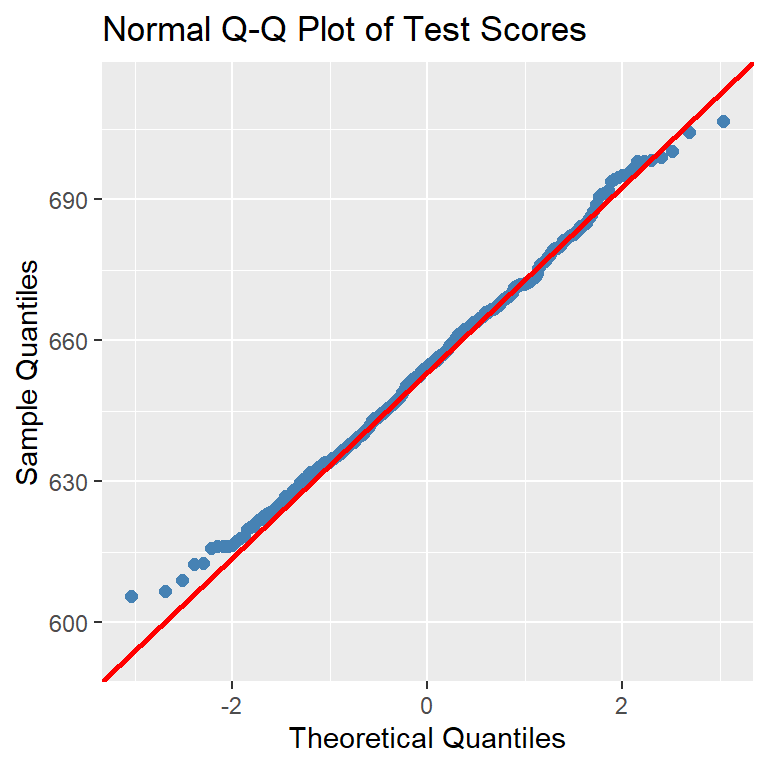
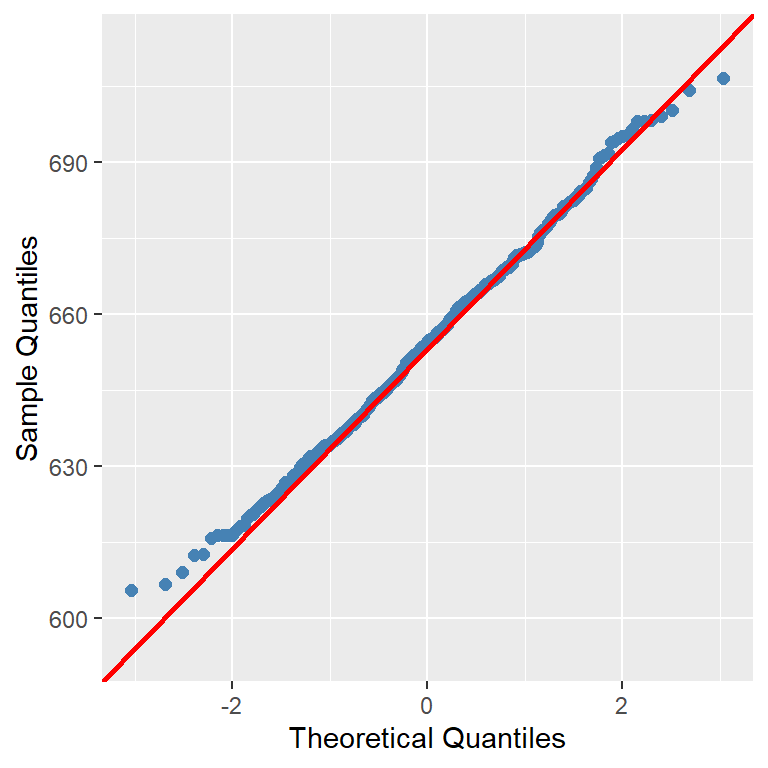
Chapter 6 is updated.

diff --git a/docs/Chapter0-Graphics.html b/docs/Chapter0-Graphics.html
@@ -1186,7 +1186,7 @@ Figure&nbsp;6.8: Pie chart of number of schools by category
 </div>
 </section><section id="quantile-plots" class="level3" data-number="6.2.5"><h3 data-number="6.2.5" class="anchored" data-anchor-id="quantile-plots">
 <span class="header-section-number">6.2.5</span> Quantile plots</h3>
-<p>We use the <code>qqplot</code>, <code>qqnorm</code>, and <code>qqline</code> functions to create quantile plots. The <code>qqnorm</code> function creates a normal Q-Q plot, and the <code>qqline</code> function adds a reference line to the plot. In the following example, we create the normal Q-Q plot of test scores.</p>
+<p>We use quantile plots to compare the sample quantiles of our data to theoretical quantiles from a specified distribution. The <code>qqplot</code> function creates a Q-Q plot for two samples, while the <code>qqnorm</code> function produces a normal Q-Q plot, i.e., a plot of the sample quantiles against the theoretical quantiles of a normal distribution. The <code>qqline</code> function adds a reference line to the plot. If the points in the Q-Q plot lie approximately along the reference line, this provides evidence that the sample distribution is similar to the theoretical distribution. In the following example, we create a normal Q-Q plot for the test scores variable. The figure indicates that for test scores below approximately 650, the corresponding sample quantiles lie above the theoretical quantiles of the standard normal distribution, whereas for test scores above approximately 700, the sample quantiles lie below the corresponding theoretical quantiles. This suggests that the distribution of test scores has relatively light (thin) left and right tails compared to the normal distribution.</p>
 <div class="cell">
 <div class="code-copy-outer-scaffold"><div class="sourceCode" id="cb17"><pre class="downlit sourceCode r code-with-copy"><code class="sourceCode R"><span><span class="co"># Normal Q-Q plot of test scores</span></span>
 <span><span class="fu"><a href="https://rdrr.io/r/stats/qqnorm.html">qqnorm</a></span><span class="op">(</span><span class="va">caschool</span><span class="op">$</span><span class="va">testscr</span>,</span>
@@ -1887,9 +1887,8 @@ Figure&nbsp;6.26: Boxplot of test scores by category with constant fill color
 <div class="code-copy-outer-scaffold"><div class="sourceCode" id="cb38"><pre class="downlit sourceCode r code-with-copy"><code class="sourceCode R"><span><span class="co"># Normal Q-Q plot of test scores</span></span>
 <span><span class="fu"><a href="https://ggplot2.tidyverse.org/reference/ggplot.html">ggplot</a></span><span class="op">(</span>data <span class="op">=</span> <span class="va">caschool</span>, <span class="fu"><a href="https://ggplot2.tidyverse.org/reference/aes.html">aes</a></span><span class="op">(</span>sample <span class="op">=</span> <span class="va">testscr</span><span class="op">)</span><span class="op">)</span> <span class="op">+</span></span>
 <span>  <span class="fu"><a href="https://ggplot2.tidyverse.org/reference/geom_qq.html">geom_qq</a></span><span class="op">(</span>color <span class="op">=</span> <span class="st">"steelblue"</span>, size <span class="op">=</span> <span class="fl">2</span>, shape <span class="op">=</span> <span class="fl">19</span><span class="op">)</span> <span class="op">+</span></span>
-<span>  <span class="fu"><a href="https://ggplot2.tidyverse.org/reference/geom_qq.html">geom_qq_line</a></span><span class="op">(</span>color <span class="op">=</span> <span class="st">"red"</span>, linewidth <span class="op">=</span> <span class="fl">1</span><span class="op">)</span> <span class="op">+</span></span>
-<span>  <span class="fu"><a href="https://ggplot2.tidyverse.org/reference/labs.html">labs</a></span><span class="op">(</span>title <span class="op">=</span> <span class="st">"Normal Q-Q Plot of Test Scores"</span>,</span>
-<span>       x <span class="op">=</span> <span class="st">"Theoretical Quantiles"</span>,</span>
+<span>  <span class="fu"><a href="https://ggplot2.tidyverse.org/reference/geom_qq.html">geom_qq_line</a></span><span class="op">(</span>distribution <span class="op">=</span> <span class="va">qnorm</span>, color <span class="op">=</span> <span class="st">"red"</span>, linewidth <span class="op">=</span> <span class="fl">1</span><span class="op">)</span> <span class="op">+</span></span>
+<span>  <span class="fu"><a href="https://ggplot2.tidyverse.org/reference/labs.html">labs</a></span><span class="op">(</span>x <span class="op">=</span> <span class="st">"Theoretical Quantiles"</span>,</span>
 <span>       y <span class="op">=</span> <span class="st">"Sample Quantiles"</span><span class="op">)</span></span></code></pre></div><button title="Copy to Clipboard" class="code-copy-button"><i class="bi"></i></button></div>
 <div class="cell-output-display">
 <div id="fig-chapter6-f28" class="quarto-float quarto-figure quarto-figure-center anchored">
@@ -1902,11 +1901,32 @@ Figure&nbsp;6.27: Normal Q-Q plot of test scores
 </div>
 </div>
 </div>
+<p>In the following example, we create a Q-Q plot of test scores against the t-distribution with 5 degrees of freedom. We use the <code>distribution</code> argument in the <code>geom_qq</code> function to specify the theoretical distribution. The <code>geom_qq_line</code> function adds a reference line based on the t-distribution with 5 degrees of freedom. The plot shows that the sample quantiles of test scores deviate from the theoretical quantiles of the t-distribution in the left and right tails, suggesting that the distribution of test scores has relatively light (thin) tails compared to the t-distribution with 5 degrees of freedom.</p>
+<div class="cell">
+<div class="code-copy-outer-scaffold"><div class="sourceCode" id="cb39"><pre class="downlit sourceCode r code-with-copy"><code class="sourceCode R"><span><span class="co"># Q-Q plot of test scores against t-distribution with 5 degrees of freedom</span></span>
+<span><span class="fu"><a href="https://ggplot2.tidyverse.org/reference/ggplot.html">ggplot</a></span><span class="op">(</span>data <span class="op">=</span> <span class="va">caschool</span>, <span class="fu"><a href="https://ggplot2.tidyverse.org/reference/aes.html">aes</a></span><span class="op">(</span>sample <span class="op">=</span> <span class="va">testscr</span><span class="op">)</span><span class="op">)</span> <span class="op">+</span></span>
+<span>  <span class="fu"><a href="https://ggplot2.tidyverse.org/reference/geom_qq.html">geom_qq</a></span><span class="op">(</span>distribution <span class="op">=</span> <span class="va">qt</span>, dparams <span class="op">=</span> <span class="fu"><a href="https://rdrr.io/r/base/list.html">list</a></span><span class="op">(</span>df <span class="op">=</span> <span class="fl">5</span><span class="op">)</span>,</span>
+<span>          color <span class="op">=</span> <span class="st">"steelblue"</span>, size <span class="op">=</span> <span class="fl">2</span>, shape <span class="op">=</span> <span class="fl">19</span><span class="op">)</span> <span class="op">+</span></span>
+<span>  <span class="fu"><a href="https://ggplot2.tidyverse.org/reference/geom_qq.html">geom_qq_line</a></span><span class="op">(</span>distribution <span class="op">=</span> <span class="va">qt</span>, dparams <span class="op">=</span> <span class="fu"><a href="https://rdrr.io/r/base/list.html">list</a></span><span class="op">(</span>df <span class="op">=</span> <span class="fl">5</span><span class="op">)</span>,</span>
+<span>               color <span class="op">=</span> <span class="st">"red"</span>, linewidth <span class="op">=</span> <span class="fl">1</span><span class="op">)</span> <span class="op">+</span></span>
+<span>  <span class="fu"><a href="https://ggplot2.tidyverse.org/reference/labs.html">labs</a></span><span class="op">(</span>x <span class="op">=</span> <span class="st">"Theoretical Quantiles"</span>,</span>
+<span>       y <span class="op">=</span> <span class="st">"Sample Quantiles"</span><span class="op">)</span></span></code></pre></div><button title="Copy to Clipboard" class="code-copy-button"><i class="bi"></i></button></div>
+<div class="cell-output-display">
+<div id="fig-chapter6-f28-2" class="quarto-float quarto-figure quarto-figure-center anchored">
+<figure class="quarto-float quarto-float-fig figure"><div aria-describedby="fig-chapter6-f28-2-caption-0ceaefa1-69ba-4598-a22c-09a6ac19f8ca">
+<img src="Chapter0-Graphics_files/figure-html/fig-chapter6-f28-2-1.png" class="img-fluid figure-img" width="384">
+</div>
+<figcaption class="quarto-float-caption-bottom quarto-float-caption quarto-float-fig" id="fig-chapter6-f28-2-caption-0ceaefa1-69ba-4598-a22c-09a6ac19f8ca">
+Figure&nbsp;6.28: Q-Q plot of test scores against t-distribution with 5 degrees of freedom
+</figcaption></figure>
+</div>
+</div>
+</div>
 </section><section id="density-plots-1" class="level3" data-number="6.3.8"><h3 data-number="6.3.8" class="anchored" data-anchor-id="density-plots-1">
 <span class="header-section-number">6.3.8</span> Density plots</h3>
 <p>The <code>geom_density</code> function can be used to create density plots. Its syntax is as follows:</p>
 <div class="cell">
-<div class="code-copy-outer-scaffold"><div class="sourceCode" id="cb39"><pre class="downlit sourceCode r code-with-copy"><code class="sourceCode R"><span><span class="fu"><a href="https://ggplot2.tidyverse.org/reference/geom_density.html">geom_density</a></span><span class="op">(</span>mapping <span class="op">=</span> <span class="cn">NULL</span>, data <span class="op">=</span> <span class="cn">NULL</span>,</span>
+<div class="code-copy-outer-scaffold"><div class="sourceCode" id="cb40"><pre class="downlit sourceCode r code-with-copy"><code class="sourceCode R"><span><span class="fu"><a href="https://ggplot2.tidyverse.org/reference/geom_density.html">geom_density</a></span><span class="op">(</span>mapping <span class="op">=</span> <span class="cn">NULL</span>, data <span class="op">=</span> <span class="cn">NULL</span>,</span>
 <span>                 stat <span class="op">=</span> <span class="st">"density"</span>, position <span class="op">=</span> <span class="st">"identity"</span>,</span>
 <span>                 <span class="va">...</span>,</span>
 <span>                 na.rm <span class="op">=</span> <span class="cn">FALSE</span>, show.legend <span class="op">=</span> <span class="cn">NA</span>,</span>
@@ -1915,7 +1935,7 @@ Figure&nbsp;6.27: Normal Q-Q plot of test scores
 <p>It understands the following aesthetics: (i) <code>x</code>: x-coordinate of the density curve, (ii) <code>y</code>: height of the density curve (computed by default), (iii) <code>fill</code>: fill color of the area under the density curve, (iv) <code>color</code>: border color of the density curve, (v) <code>linetype</code>: line type of the density curve, and (vi) <code>size</code>: line width of the density curve, (vii) <code>alpha</code>: transparency of the fill color, and (viii) <code>group</code>: grouping variable for the density curve.</p>
 <p>In the following example, we create a density plot of test scores.</p>
 <div class="cell">
-<div class="code-copy-outer-scaffold"><div class="sourceCode" id="cb40"><pre class="downlit sourceCode r code-with-copy"><code class="sourceCode R"><span><span class="co"># Density plot of test scores</span></span>
+<div class="code-copy-outer-scaffold"><div class="sourceCode" id="cb41"><pre class="downlit sourceCode r code-with-copy"><code class="sourceCode R"><span><span class="co"># Density plot of test scores</span></span>
 <span><span class="fu"><a href="https://ggplot2.tidyverse.org/reference/ggplot.html">ggplot</a></span><span class="op">(</span>data <span class="op">=</span> <span class="va">caschool</span>, <span class="fu"><a href="https://ggplot2.tidyverse.org/reference/aes.html">aes</a></span><span class="op">(</span>x <span class="op">=</span> <span class="va">testscr</span><span class="op">)</span><span class="op">)</span> <span class="op">+</span></span>
 <span>     <span class="fu"><a href="https://ggplot2.tidyverse.org/reference/geom_density.html">geom_density</a></span><span class="op">(</span>fill <span class="op">=</span> <span class="st">"lightblue"</span>, color <span class="op">=</span> <span class="st">"black"</span>, linewidth <span class="op">=</span> <span class="fl">1</span><span class="op">)</span> <span class="op">+</span></span>
 <span>     <span class="fu"><a href="https://ggplot2.tidyverse.org/reference/labs.html">labs</a></span><span class="op">(</span>title <span class="op">=</span> <span class="st">"Density Plot of Test Scores"</span>,</span>
@@ -1927,14 +1947,14 @@ Figure&nbsp;6.27: Normal Q-Q plot of test scores
 <img src="Chapter0-Graphics_files/figure-html/fig-chapter6-f29-1.png" class="img-fluid figure-img" width="384">
 </div>
 <figcaption class="quarto-float-caption-bottom quarto-float-caption quarto-float-fig" id="fig-chapter6-f29-caption-0ceaefa1-69ba-4598-a22c-09a6ac19f8ca">
-Figure&nbsp;6.28: Density plot of test scores
+Figure&nbsp;6.29: Density plot of test scores
 </figcaption></figure>
 </div>
 </div>
 </div>
-<p>We can overlay a density plot on a histogram. In the following example, we create a histogram of test scores and overlay a density plot on it. The plot is shown in <a href="#fig-chapter6-f30" class="quarto-xref">Figure&nbsp;<span>6.29</span></a>.</p>
+<p>We can overlay a density plot on a histogram. In the following example, we create a histogram of test scores and overlay a density plot on it. The plot is shown in <a href="#fig-chapter6-f30" class="quarto-xref">Figure&nbsp;<span>6.30</span></a>.</p>
 <div class="cell">
-<div class="code-copy-outer-scaffold"><div class="sourceCode" id="cb41"><pre class="downlit sourceCode r code-with-copy"><code class="sourceCode R"><span><span class="co"># Density plot and histogram of test scores</span></span>
+<div class="code-copy-outer-scaffold"><div class="sourceCode" id="cb42"><pre class="downlit sourceCode r code-with-copy"><code class="sourceCode R"><span><span class="co"># Density plot and histogram of test scores</span></span>
 <span><span class="fu"><a href="https://ggplot2.tidyverse.org/reference/ggplot.html">ggplot</a></span><span class="op">(</span>data <span class="op">=</span> <span class="va">caschool</span>, <span class="fu"><a href="https://ggplot2.tidyverse.org/reference/aes.html">aes</a></span><span class="op">(</span>x <span class="op">=</span> <span class="va">testscr</span><span class="op">)</span><span class="op">)</span> <span class="op">+</span></span>
 <span>     <span class="fu"><a href="https://ggplot2.tidyverse.org/reference/geom_histogram.html">geom_histogram</a></span><span class="op">(</span><span class="fu"><a href="https://ggplot2.tidyverse.org/reference/aes.html">aes</a></span><span class="op">(</span>y <span class="op">=</span> <span class="fu"><a href="https://ggplot2.tidyverse.org/reference/aes_eval.html">after_stat</a></span><span class="op">(</span><span class="va">density</span><span class="op">)</span><span class="op">)</span>, binwidth <span class="op">=</span> <span class="fl">5</span>,</span>
 <span>                    fill <span class="op">=</span> <span class="st">"lightgray"</span>, color <span class="op">=</span> <span class="st">"black"</span><span class="op">)</span> <span class="op">+</span></span>
@@ -1948,16 +1968,16 @@ Figure&nbsp;6.28: Density plot of test scores
 <img src="Chapter0-Graphics_files/figure-html/fig-chapter6-f30-1.png" class="img-fluid figure-img" width="576">
 </div>
 <figcaption class="quarto-float-caption-bottom quarto-float-caption quarto-float-fig" id="fig-chapter6-f30-caption-0ceaefa1-69ba-4598-a22c-09a6ac19f8ca">
-Figure&nbsp;6.29: Density plot and histogram of test scores
+Figure&nbsp;6.30: Density plot and histogram of test scores
 </figcaption></figure>
 </div>
 </div>
 </div>
 </section><section id="multiple-plots-in-one-figure-1" class="level3" data-number="6.3.9"><h3 data-number="6.3.9" class="anchored" data-anchor-id="multiple-plots-in-one-figure-1">
 <span class="header-section-number">6.3.9</span> Multiple plots in one figure</h3>
-<p>We can use the <code>gridExtra</code> package to create multiple plots in one figure. The <code>grid.arrange</code> function in the <code>gridExtra</code> package arranges multiple <code>ggplot</code> objects in a grid layout. In the following example, we create a 2x2 grid of plots. The figure is shown in <a href="#fig-chapter6-f31" class="quarto-xref">Figure&nbsp;<span>6.30</span></a>.</p>
+<p>We can use the <code>gridExtra</code> package to create multiple plots in one figure. The <code>grid.arrange</code> function in the <code>gridExtra</code> package arranges multiple <code>ggplot</code> objects in a grid layout. In the following example, we create a 2x2 grid of plots. The figure is shown in <a href="#fig-chapter6-f31" class="quarto-xref">Figure&nbsp;<span>6.31</span></a>.</p>
 <div class="cell">
-<div class="code-copy-outer-scaffold"><div class="sourceCode" id="cb42"><pre class="downlit sourceCode r code-with-copy"><code class="sourceCode R"><span><span class="co"># Multiple plots in one figure</span></span>
+<div class="code-copy-outer-scaffold"><div class="sourceCode" id="cb43"><pre class="downlit sourceCode r code-with-copy"><code class="sourceCode R"><span><span class="co"># Multiple plots in one figure</span></span>
 <span><span class="co"># Scatterplot</span></span>
 <span><span class="va">p1</span> <span class="op">&lt;-</span> <span class="fu"><a href="https://ggplot2.tidyverse.org/reference/ggplot.html">ggplot</a></span><span class="op">(</span>data <span class="op">=</span> <span class="va">caschool</span>, <span class="fu"><a href="https://ggplot2.tidyverse.org/reference/aes.html">aes</a></span><span class="op">(</span>x <span class="op">=</span> <span class="va">str</span>, y <span class="op">=</span> <span class="va">testscr</span><span class="op">)</span><span class="op">)</span> <span class="op">+</span></span>
 <span>        <span class="fu"><a href="https://ggplot2.tidyverse.org/reference/geom_point.html">geom_point</a></span><span class="op">(</span>color <span class="op">=</span> <span class="st">"steelblue"</span>, size <span class="op">=</span> <span class="fl">2</span><span class="op">)</span> <span class="op">+</span></span>
@@ -1991,7 +2011,7 @@ Figure&nbsp;6.29: Density plot and histogram of test scores
 <img src="Chapter0-Graphics_files/figure-html/fig-chapter6-f31-1.png" class="img-fluid figure-img" width="768">
 </div>
 <figcaption class="quarto-float-caption-bottom quarto-float-caption quarto-float-fig" id="fig-chapter6-f31-caption-0ceaefa1-69ba-4598-a22c-09a6ac19f8ca">
-Figure&nbsp;6.30: Multiple plots in one figure
+Figure&nbsp;6.31: Multiple plots in one figure
 </figcaption></figure>
 </div>
 </div>
@@ -2052,9 +2072,9 @@ Table&nbsp;6.6: Commonly used themes in ggplot2
 </div>
 </div>
 </div>
-<p>In the following example, we create a scatterplot of test scores versus student-teacher ratio using the <code>theme_classical</code> theme. The scatterplot is shown in <a href="#fig-chapter6-f32" class="quarto-xref">Figure&nbsp;<span>6.31</span></a>.</p>
+<p>In the following example, we create a scatterplot of test scores versus student-teacher ratio using the <code>theme_classical</code> theme. The scatterplot is shown in <a href="#fig-chapter6-f32" class="quarto-xref">Figure&nbsp;<span>6.32</span></a>.</p>
 <div class="cell">
-<div class="code-copy-outer-scaffold"><div class="sourceCode" id="cb43"><pre class="downlit sourceCode r code-with-copy"><code class="sourceCode R"><span><span class="co"># Scatterplot of test scores vs. student-teacher ratio with minimal theme</span></span>
+<div class="code-copy-outer-scaffold"><div class="sourceCode" id="cb44"><pre class="downlit sourceCode r code-with-copy"><code class="sourceCode R"><span><span class="co"># Scatterplot of test scores vs. student-teacher ratio with minimal theme</span></span>
 <span><span class="fu"><a href="https://ggplot2.tidyverse.org/reference/ggplot.html">ggplot</a></span><span class="op">(</span>data <span class="op">=</span> <span class="va">caschool</span>, <span class="fu"><a href="https://ggplot2.tidyverse.org/reference/aes.html">aes</a></span><span class="op">(</span>x <span class="op">=</span> <span class="va">str</span>, y <span class="op">=</span> <span class="va">testscr</span><span class="op">)</span><span class="op">)</span> <span class="op">+</span></span>
 <span>  <span class="fu"><a href="https://ggplot2.tidyverse.org/reference/geom_point.html">geom_point</a></span><span class="op">(</span>color <span class="op">=</span> <span class="st">"steelblue"</span>, size <span class="op">=</span> <span class="fl">2</span><span class="op">)</span> <span class="op">+</span></span>
 <span>  <span class="fu"><a href="https://ggplot2.tidyverse.org/reference/labs.html">labs</a></span><span class="op">(</span>title <span class="op">=</span> <span class="st">"Test Scores vs. Student-Teacher Ratio"</span>,</span>
@@ -2067,7 +2087,7 @@ Table&nbsp;6.6: Commonly used themes in ggplot2
 <img src="Chapter0-Graphics_files/figure-html/fig-chapter6-f32-1.png" class="img-fluid figure-img" width="480">
 </div>
 <figcaption class="quarto-float-caption-bottom quarto-float-caption quarto-float-fig" id="fig-chapter6-f32-caption-0ceaefa1-69ba-4598-a22c-09a6ac19f8ca">
-Figure&nbsp;6.31: Scatterplot of test scores vs.&nbsp;student-teacher ratio with minimal theme
+Figure&nbsp;6.32: Scatterplot of test scores vs.&nbsp;student-teacher ratio with minimal theme
 </figcaption></figure>
 </div>
 </div>
